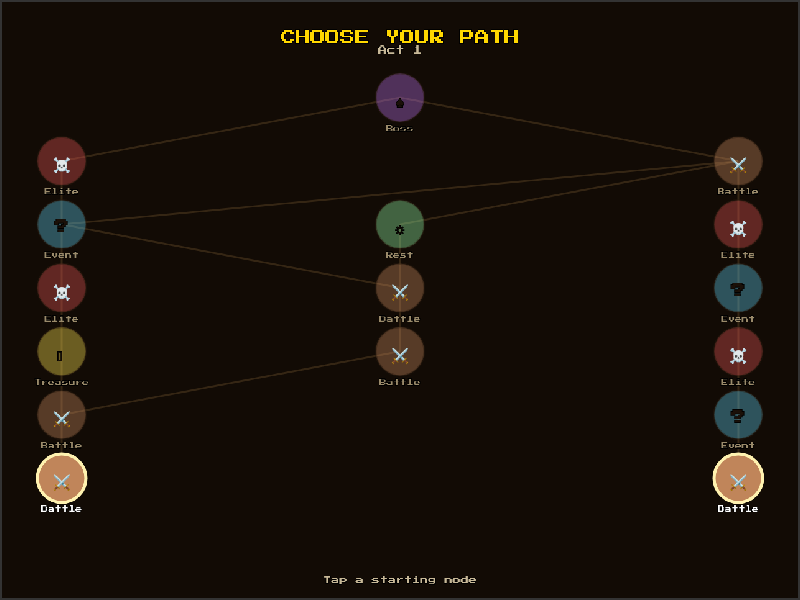
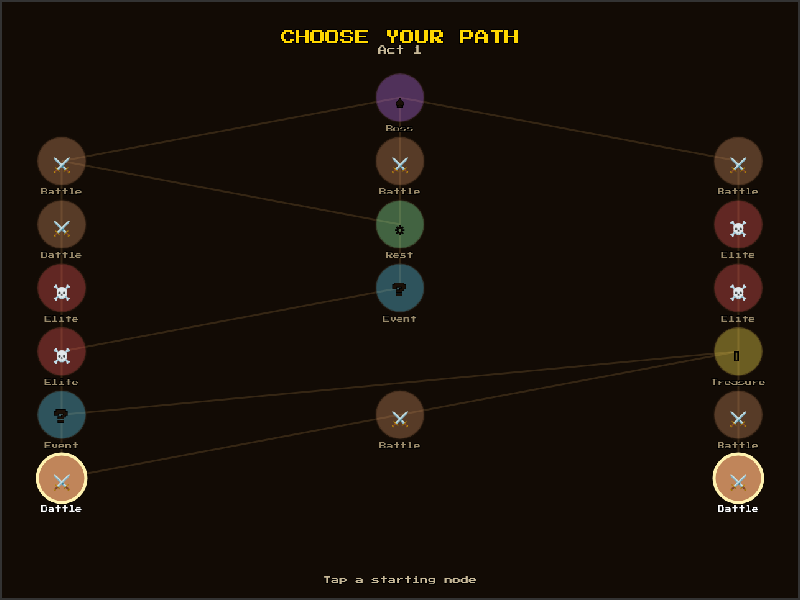
pixel-art: convert worms, orbiting orb, bomb & XP gem to real sprites
Replace the remaining directly-drawn (arc/procedural) game entities with
proper pixel-art sprites via the existing SpriteSheet.get()+drawImage() path:
- worm_head / worm_body sprites for wormhead/wormbody segments (+ hit-flash)
- orbiting_orb sprite for the OrbitingOrb stacking weapon
- bomb sprite for the Bomb stacking weapon (fuse spark still blinks)
- XPOrb now uses the existing xp crystal sprite instead of nested fillRects

Draw-only change; no collision/lifecycle code touched. Effects/telegraphs
(AoE zones, shield ring, miniboss aura, egg-sac countdown, particles) stay
as shapes intentionally. Adds qa-sprite-conversion.mjs.

diff --git a/frontend/src/sprites.ts b/frontend/src/sprites.ts
@@ -1525,5 +1525,103 @@ export class SpriteSheet {
 
     this.drawPixels(ctx2, goldPixels, goldColors, 5);
     this.sprites.set('gold', gold);
+
+    // Orbiting energy orb (9x9 base * 4 = 36px). Cyan core + white hot centre.
+    const orb = this.createCanvas(36, 36);
+    const orbCtx = orb.getContext('2d')!;
+    const orbPixels = [
+      [0,0,0,1,1,1,0,0,0],
+      [0,0,1,2,2,2,1,0,0],
+      [0,1,2,3,3,3,2,1,0],
+      [1,2,3,3,4,3,3,2,1],
+      [1,2,3,4,4,4,3,2,1],
+      [1,2,3,3,4,3,3,2,1],
+      [0,1,2,3,3,3,2,1,0],
+      [0,0,1,2,2,2,1,0,0],
+      [0,0,0,1,1,1,0,0,0],
+    ];
+    const orbColors = [
+      'transparent',
+      '#003b5c',     // 1 - dark rim
+      '#0aa5cc',     // 2 - deep cyan
+      '#22e0ff',     // 3 - cyan body
+      '#ffffff',     // 4 - white hot core
+    ];
+    this.drawPixels(orbCtx, orbPixels, orbColors, 4);
+    this.sprites.set('orbiting_orb', orb);
+
+    // Bomb (9x11 base * 4 = 36x44px). Round black body, grey highlight, lit fuse.
+    const bomb = this.createCanvas(36, 44);
+    const bombCtx = bomb.getContext('2d')!;
+    const bombPixels = [
+      [0,0,0,0,0,4,4,0,0],  // fuse spark
+      [0,0,0,0,3,3,3,0,0],  // fuse stem
+      [0,0,0,0,0,3,0,0,0],
+      [0,0,1,1,1,1,1,0,0],
+      [0,1,2,2,2,2,2,1,0],
+      [1,2,2,5,5,2,2,2,1],  // highlight (5)
+      [1,2,5,5,2,2,2,2,1],
+      [1,2,2,2,2,2,2,2,1],
+      [1,2,2,2,2,2,2,2,1],
+      [0,1,2,2,2,2,2,1,0],
+      [0,0,1,1,1,1,1,0,0],
+    ];
+    const bombColors = [
+      'transparent',
+      '#000000',     // 1 - outline
+      '#1a1a1a',     // 2 - body
+      '#553311',     // 3 - fuse stem (brown)
+      '#ff7a00',     // 4 - fuse spark (lit)
+      '#444444',     // 5 - highlight
+    ];
+    this.drawPixels(bombCtx, bombPixels, bombColors, 4);
+    this.sprites.set('bomb', bomb);
+
+    // Worm head (9x9 base * 6 = 54px). Orange segmented disc with eyes + rim.
+    const wormHead = this.createCanvas(54, 54);
+    const wormHeadCtx = wormHead.getContext('2d')!;
+    const wormHeadPixels = [
+      [0,0,1,1,1,1,1,0,0],
+      [0,1,2,2,2,2,2,1,0],
+      [1,2,2,3,3,3,2,2,1],
+      [1,2,3,3,3,3,3,2,1],
+      [1,2,3,3,3,3,3,2,1],
+      [1,4,2,3,3,3,2,4,1],  // eyes (4)
+      [1,2,2,2,2,2,2,2,1],
+      [0,1,2,2,2,2,2,1,0],
+      [0,0,1,1,1,1,1,0,0],
+    ];
+    const wormHeadColors = [
+      'transparent',
+      '#7a3803',     // 1 - dark rim
+      '#e67e22',     // 2 - body orange
+      '#f39c12',     // 3 - inner highlight
+      '#2c1200',     // 4 - eyes
+    ];
+    this.drawPixels(wormHeadCtx, wormHeadPixels, wormHeadColors, 6);
+    this.sprites.set('worm_head', wormHead);
+
+    // Worm body (9x9 base * 6 = 54px). Darker segmented disc, no face.
+    const wormBody = this.createCanvas(54, 54);
+    const wormBodyCtx = wormBody.getContext('2d')!;
+    const wormBodyPixels = [
+      [0,0,1,1,1,1,1,0,0],
+      [0,1,2,2,2,2,2,1,0],
+      [1,2,2,3,3,3,2,2,1],
+      [1,2,3,3,3,3,3,2,1],
+      [1,2,3,3,3,3,3,2,1],
+      [1,2,2,3,3,3,2,2,1],
+      [1,2,2,2,2,2,2,2,1],
+      [0,1,2,2,2,2,2,1,0],
+      [0,0,1,1,1,1,1,0,0],
+    ];
+    const wormBodyColors = [
+      'transparent',
+      '#5a2a02',     // 1 - dark rim
+      '#d35400',     // 2 - body (darker orange)
+      '#e67e22',     // 3 - inner highlight
+    ];
+    this.drawPixels(wormBodyCtx, wormBodyPixels, wormBodyColors, 6);
+    this.sprites.set('worm_body', wormBody);
   }
 }

diff --git a/frontend/src/Weapons.ts b/frontend/src/Weapons.ts
@@ -4,6 +4,8 @@
 // itself and exposes a hit test; Game.ts owns the actual damage application so all
 // the crit / knockback / kill / particle logic stays in one place.
 
+import { SpriteSheet } from './sprites';
+
 /**
  * A pixel energy orb that circles the player at a fixed radius. Contact damages
  * enemies, with a short per-enemy re-hit cooldown so it grinds rather than
@@ -60,20 +62,15 @@ export class OrbitingOrb {
   draw(ctx: CanvasRenderingContext2D): void {
     ctx.save();
     ctx.imageSmoothingEnabled = false;
-    const r = this.radius;
-    // Outer dark ring for contrast
-    ctx.fillStyle = '#003b5c';
-    ctx.beginPath();
-    ctx.arc(Math.floor(this.x), Math.floor(this.y), r, 0, Math.PI * 2);
-    ctx.fill();
-    // Cyan energy body
-    ctx.fillStyle = '#22e0ff';
-    ctx.beginPath();
-    ctx.arc(Math.floor(this.x), Math.floor(this.y), r - 3, 0, Math.PI * 2);
-    ctx.fill();
-    // White hot core
-    ctx.fillStyle = '#ffffff';
-    ctx.fillRect(Math.floor(this.x) - 2, Math.floor(this.y) - 2, 4, 4);
+    const sprite = SpriteSheet.get('orbiting_orb');
+    const size = this.radius * 2.2; // sprite drawn a touch larger than the hit radius
+    ctx.drawImage(
+      sprite!,
+      Math.floor(this.x - size / 2),
+      Math.floor(this.y - size / 2),
+      Math.floor(size),
+      Math.floor(size)
+    );
     ctx.restore();
   }
 }
@@ -111,24 +108,29 @@ export class Bomb {
   draw(ctx: CanvasRenderingContext2D): void {
     ctx.save();
     ctx.imageSmoothingEnabled = false;
-    const x = Math.floor(this.x);
-    const y = Math.floor(this.y);
-    // Blink rate accelerates toward detonation.
+    const sprite = SpriteSheet.get('bomb')!;
+    // Sprite is 36x44 (9x11 base); draw around a ~24px body footprint.
+    const w = 26;
+    const h = w * (sprite.height / sprite.width);
+    const x = Math.floor(this.x - w / 2);
+    // Anchor so the body sits on (this.x, this.y); the fuse rises above.
+    const y = Math.floor(this.y - h * 0.66);
+    ctx.drawImage(sprite, x, y, Math.floor(w), Math.floor(h));
+
+    // Blink the fuse spark faster as detonation nears (overdraw a bright pixel).
     const t = 1 - this.fuse / this.maxFuse;
     const blinkHz = 3 + t * 12;
     const lit = Math.floor(this.fuse * blinkHz) % 2 === 0;
-    // Body
-    ctx.fillStyle = '#111111';
-    ctx.beginPath();
-    ctx.arc(x, y, 10, 0, Math.PI * 2);
-    ctx.fill();
-    ctx.fillStyle = '#333333';
-    ctx.beginPath();
-    ctx.arc(x, y, 7, 0, Math.PI * 2);
-    ctx.fill();
-    // Fuse spark
-    ctx.fillStyle = lit ? '#ff3300' : '#ffcc00';
-    ctx.fillRect(x - 2, y - 14, 4, 5);
+    if (lit) {
+      ctx.fillStyle = '#ffee66';
+      const sparkSize = Math.max(3, Math.floor(w * 0.18));
+      ctx.fillRect(
+        Math.floor(this.x - sparkSize / 2),
+        Math.floor(y),
+        sparkSize,
+        sparkSize
+      );
+    }
     ctx.restore();
   }
 }

diff --git a/frontend/src/Enemy.ts b/frontend/src/Enemy.ts
@@ -1727,45 +1727,21 @@ export class Enemy {
     ctx.fillRect(this.x - barWidth / 2, barY, barWidth * healthPercent, barHeight);
   }
 
-  /** A single worm segment: a rounded body disc with a darker rim; the head also
-   *  gets eyes + mandibles so the leading segment reads as the "front". */
+  /** A single worm segment drawn from a pixel-art sprite; the head sprite has
+   *  eyes so the leading segment reads as the "front". */
   private drawWormSegment(ctx: CanvasRenderingContext2D): void {
     const r = this.typeData.radius;
     const isHead = this.type === 'wormhead';
-    // Body: two-tone disc for a segmented, glossy look.
-    ctx.fillStyle = isHead ? '#e67e22' : '#d35400';
-    ctx.beginPath();
-    ctx.arc(this.x, this.y, r, 0, Math.PI * 2);
-    ctx.fill();
-    // Inner highlight ring.
-    ctx.fillStyle = isHead ? '#f39c12' : '#e67e22';
-    ctx.beginPath();
-    ctx.arc(this.x, this.y, r * 0.6, 0, Math.PI * 2);
-    ctx.fill();
-    // Dark rim.
-    ctx.strokeStyle = '#7a3803';
-    ctx.lineWidth = 2;
-    ctx.beginPath();
-    ctx.arc(this.x, this.y, r, 0, Math.PI * 2);
-    ctx.stroke();
+    const sprite = SpriteSheet.get(isHead ? 'worm_head' : 'worm_body');
+    if (!sprite) return;
+    const size = r * 2.2;
+    const dx = this.x - size / 2;
+    const dy = this.y - size / 2;
+    ctx.imageSmoothingEnabled = false;
     if (this.hitFlashTimer > 0.016) {
-      ctx.globalAlpha = 0.6;
-      ctx.fillStyle = '#ffffff';
-      ctx.beginPath();
-      ctx.arc(this.x, this.y, r, 0, Math.PI * 2);
-      ctx.fill();
-      ctx.globalAlpha = 1;
-    }
-    if (isHead) {
-      // Face the direction of travel (toward the player-facing angle stored on move).
-      const a = this.wormWriggle; // reused as a facing hint; falls back to any value
-      const ex = Math.cos(a) * r * 0.4;
-      const ey = Math.sin(a) * r * 0.4;
-      ctx.fillStyle = '#2c1200';
-      ctx.beginPath();
-      ctx.arc(this.x + ex - 3, this.y + ey - 3, 2.5, 0, Math.PI * 2);
-      ctx.arc(this.x + ex + 3, this.y + ey + 3, 2.5, 0, Math.PI * 2);
-      ctx.fill();
+      ctx.drawImage(tintSilhouette(sprite, '#ffffff'), dx, dy, size, size);
+    } else {
+      ctx.drawImage(sprite, dx, dy, size, size);
     }
   }
 

diff --git a/frontend/src/Pickup.ts b/frontend/src/Pickup.ts
@@ -122,16 +122,16 @@ export class XPOrb {
     ctx.save();
     ctx.imageSmoothingEnabled = false;
     const pulse = Math.sin(this.pulseOffset) * 0.2 + 1;
-    const r = Math.max(2, Math.round(this.radius * pulse));
-    const cx = Math.round(this.x);
-    const cy = Math.round(this.y);
-    // Small cyan gem: bright core + darker edge, pure pixel blocks (no glow).
-    ctx.fillStyle = '#1c6fb0';
-    ctx.fillRect(cx - r, cy - r, r * 2, r * 2);
-    ctx.fillStyle = '#4dc3ff';
-    ctx.fillRect(cx - r + 1, cy - r + 1, r * 2 - 2, r * 2 - 2);
-    ctx.fillStyle = '#bff0ff';
-    ctx.fillRect(cx - 1, cy - 1, 2, 2);
+    // Pixel-art XP gem sprite (blue crystal). Sized to ~2.6x the pickup radius.
+    const sprite = SpriteSheet.get('xp')!;
+    const size = this.radius * 2.6 * pulse;
+    ctx.drawImage(
+      sprite,
+      Math.round(this.x - size / 2),
+      Math.round(this.y - size / 2),
+      Math.round(size),
+      Math.round(size)
+    );
     ctx.restore();
   }
 }

diff --git a/frontend/src/main.ts b/frontend/src/main.ts
@@ -10,6 +10,9 @@ import './style.css';
 SpriteSheet.init();
 UISprites.init();
 
+// Dev/QA hook: lets tooling inspect the sprite registry. Not a public API.
+(window as unknown as { __SpriteSheet: typeof SpriteSheet }).__SpriteSheet = SpriteSheet;
+
 // Pixel-art wood textures for the DOM menu buttons (see .menu-btn in style.css)
 const HOVER_WOOD = { ...WOOD_THEME, face: '#9a6a3e', faceLight: '#b98756', faceDark: '#7a4e2a' };
 document.documentElement.style.setProperty(

diff --git a/CHANGELOG.md b/CHANGELOG.md
@@ -8,6 +8,34 @@ Live: https://roguelite-game-blush.vercel.app
 
 ---
 
+## 2026-07-03 (afternoon) — pixel-art: worms, orbs, bombs & XP gems now use real sprites
+
+User report: some things were still drawn as raw circles/arcs instead of pixel art. Converted the
+remaining directly-drawn game entities to proper pixel-art sprites (the `SpriteSheet.get()` +
+`drawImage()` path everything else already uses):
+
+- **Worm segments** (`wormhead`/`wormbody`) — were arc-drawn discs; now `worm_head` (orange segment
+  with eyes + rim) and `worm_body` (darker trailing segment) sprites, with the white hit-flash
+  silhouette like every other enemy.
+- **Orbiting orb** (stacking weapon) — was an arc ring + core; now an `orbiting_orb` sprite (cyan
+  body, white hot cross-core).
+- **Bomb** (stacking weapon) — was an arc body; now a `bomb` sprite (round black body, grey
+  highlight, brown fuse) with the fuse spark still blinking faster toward detonation.
+- **XP gem** — was procedural nested `fillRect`s; now uses the existing `xp` crystal sprite.
+
+Left as intentional shapes (effects/telegraphs, not entities): AoE danger zones, the player
+shield ring/dash shadow, miniboss aura glow, the sprite-less enemy fallback disc, and particles.
+The egg-sac keeps its animated shell/crack telegraph (a live countdown, not a static entity).
+
+Draw-only change — no collision/lifecycle code touched. QA: new `qa-sprite-conversion.mjs` verifies
+all 5 sprites resolve with painted pixels and zero console errors; regressions green
+(qa-stacking-weapons, qa-new-enemies, qa-zoom-xporbs, qa-magnet). Sprite sheet screenshot in
+`shots/pixel-art/converted-sprites.png`.
+
+Commit: _pending_ · Live build: _pending verify_
+
+---
+
 ## 2026-07-03 (afternoon) — shop: responsive layout (no overlap, any size) + no held-touch insta-buy
 
 Two reported bugs, both fixed and live.